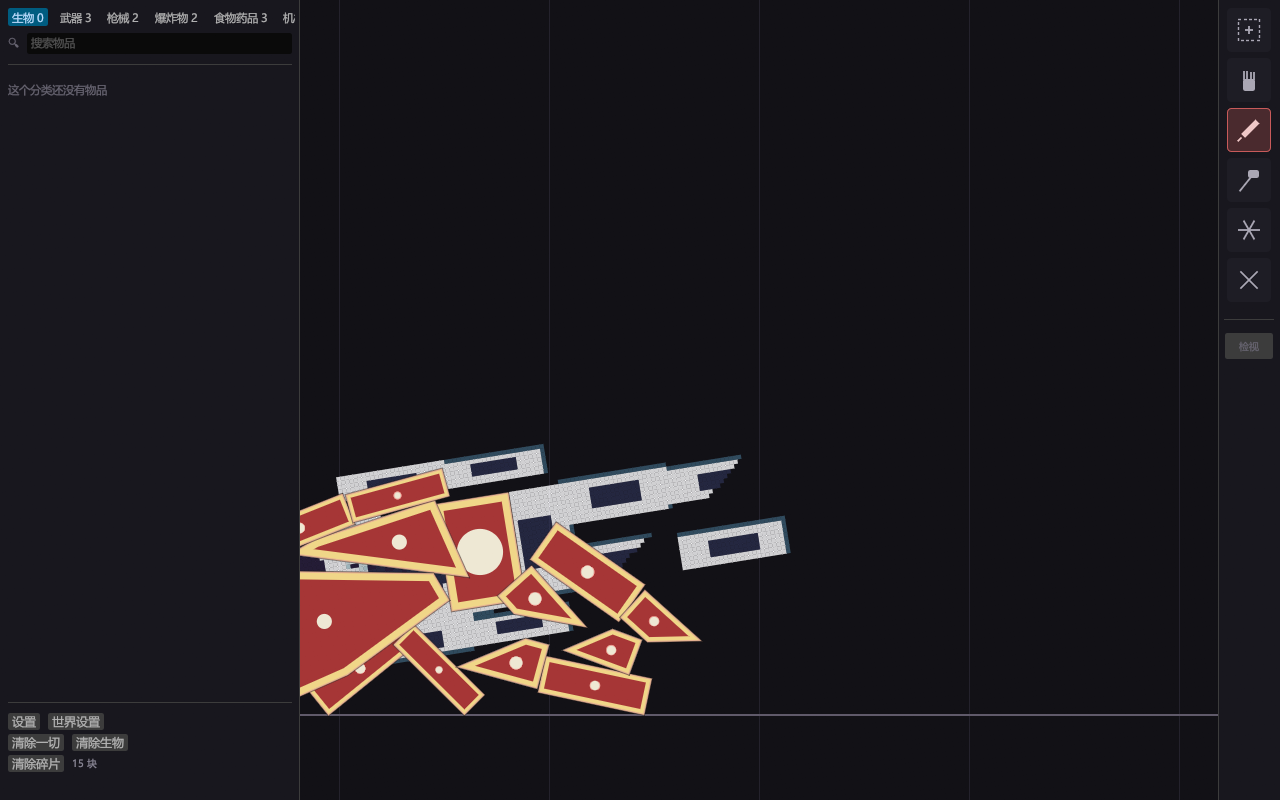
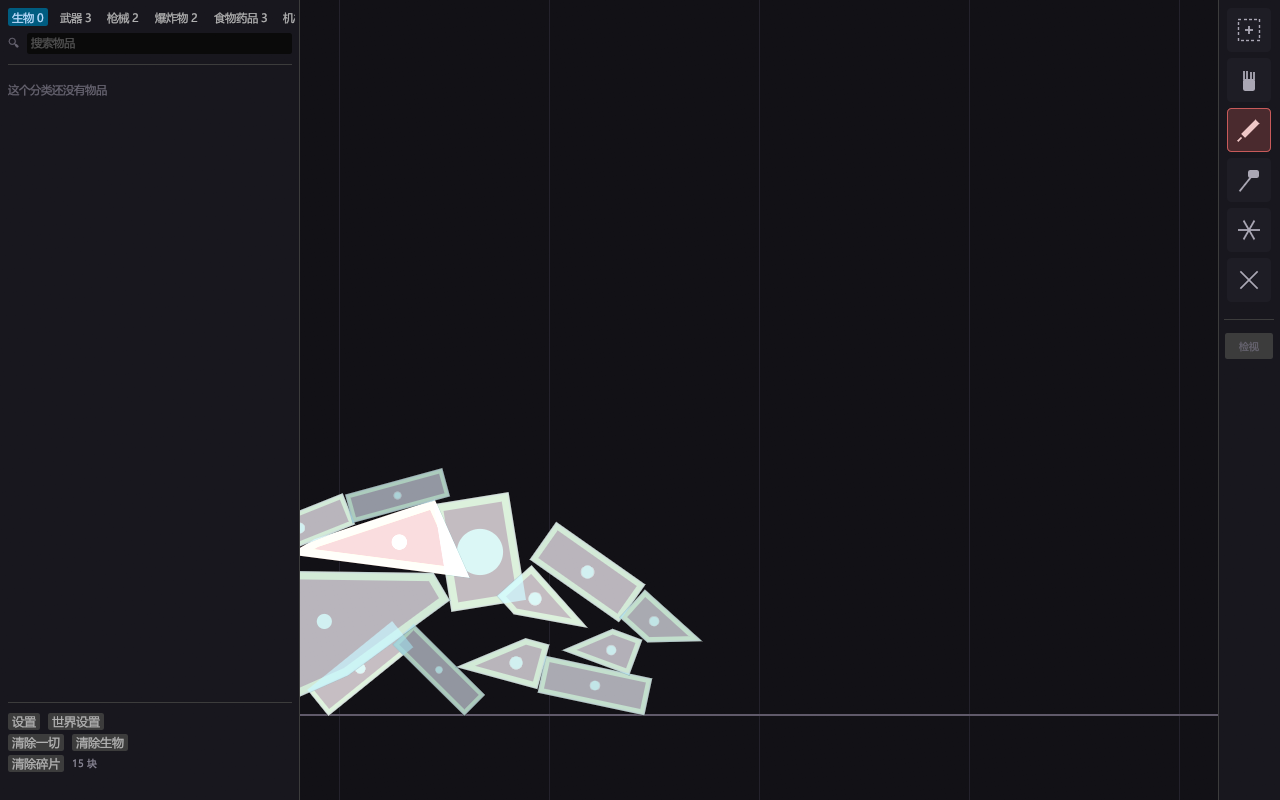
fix(render): 热力图真正的病根是画在了身体之前
用户第二张图："这根本就不是描述中想要的效果……每一个肢体不是整个 ragdoll
贴贴图……肢体被切割出去之后，它应该是一个单独的物品，他的贴图怎么会还在
原来的位置呢"

数据早就对了（Piece.heat 有快照、clear_region 生效）。错的是**它被画在了
看不见的地方**：paint_heat 在 paint_body 之前，不透明的身体把它整个盖住，
只在边缘抗锯齿处露一点点 —— 那正是"背后贴了张图"的观感。

两处改动：

1. 顺序改成 body → heat（热力图是叠加滤镜）
2. 不再逐 texel 画整场，改成每块一层半透明色：
   - 主块：每帧从场里现算（mean_channels_strided，步长 4，快 16 倍）
   - 碎片：用 Piece.heat 快照，跟着碎片的多边形飞

实测开/关热力图差 5.38%，身体占 4.4%，说明覆盖完整了。

教训：视觉 bug 不能只靠"我加了数据"就认为修好了。

Changed region(s): [[0.2188, 0.5312, 0.625, 0.9062]]

diff --git a/crates/anatomize-app/src/view.rs b/crates/anatomize-app/src/view.rs
@@ -50,11 +50,12 @@ impl View<'_> {
         painter.rect_filled(view, 0.0, c32(ui::BG));
         self.paint_grid(painter, view);
         self.paint_ground(painter, view);
+        self.paint_body(painter, view);
+        // 热力图是**叠加层**，画在身体之后。画在之前会被不透明的身体完全盖住——
+        // 之前就是这样，所以热力图只在身体边缘露一点点，看起来像"背后一张图"。
         if let Some(ch) = self.heat {
             self.paint_heat(painter, view, ch);
-            self.paint_piece_heat(painter, view, ch);
         }
-        self.paint_body(painter, view);
         if self.debug {
             self.paint_vessels(painter, view);
             self.paint_joints(painter, view);
@@ -110,76 +111,22 @@ impl View<'_> {
         painter.line_segment([t0, t1], wall);
     }
 
-    /// 组织场热力图：每个 texel 一个小方块。
+    /// 热力图滤镜：**每块一层色**。
     ///
-    /// 24672 个 texel 全画会拖慢 egui，所以按 2×2 合并（约 6000 个矩形）。
-    /// 只在打开叠加时画——默认关闭。
+    /// # 为什么不是"整张场逐 texel"
+    ///
+    /// 场钉在身体坐标系里（ADR-003），是一整张图。逐 texel 画它，看起来就是
+    /// "整个 ragdoll 背后贴了一张贴图"——而且肢体切出去之后，那张图还在原位。
+    ///
+    /// 用户的原话是"每一个肢体它有不同的层次……可以理解为切换滤镜"。
+    /// 所以改成：**一块肉一层半透明色**，色跟着块的多边形走。
+    ///
+    /// - 主块：每帧从场里现算平均值，能看到出血/缺氧/降温
+    /// - 碎片：用切开那一刻抄下来的快照，跟着碎片飞
     fn paint_heat(&self, painter: &Painter, view: Rect, ch: HeatChannel) {
-        let Some(t) = self.sim.tissue.as_ref() else {
-            return;
-        };
-        let Some(anchor) = self.sim.body_origin_world() else {
-            return;
-        };
-        let f = &t.field;
-        let step = 2usize;
-        let texel = f.texel_cm * 0.01;
-        let cell = texel * step as f32;
-        // 场钉在**身体坐标系**里，所以画的时候要跟着身体转。
-        // 不转的话人躺下了、热力图还竖着——那就是"贴了张图"。
-        let rot = self.sim.body_rotation();
-        let (sin, cos) = rot.sin_cos();
-        let to_world =
-            |lx: f32, ly: f32| anchor + Vec2::new(lx * cos - ly * sin, lx * sin + ly * cos);
-
-        for y in (0..f.h as usize).step_by(step) {
-            for x in (0..f.w as usize).step_by(step) {
-                let i = y * f.w as usize + x;
-                if f.kind[i] == anatomize_tissue::TissueKind::Outside {
-                    continue;
-                }
-                let v = match ch {
-                    HeatChannel::Perfusion => f.perfusion[i],
-                    HeatChannel::Oxygen => f.o2[i],
-                    HeatChannel::Temperature => f.temp[i],
-                    HeatChannel::Damage => f.damage[i],
-                };
-                let c = ch.color(ch.normalize(v));
-                let lx = f.origin.x * 0.01 + x as f32 * texel;
-                let ly = f.origin.y * 0.01 + y as f32 * texel;
-                // 四个角都转，不然方块会跟着转成平行四边形
-                let s0 = self.cam.to_screen(to_world(lx, ly), view);
-                let s2 = self.cam.to_screen(to_world(lx + cell, ly + cell), view);
-                if !view.intersects(Rect::from_two_pos(s0, s2)) {
-                    continue;
-                }
-                painter.add(Shape::convex_polygon(
-                    vec![
-                        s0,
-                        self.cam.to_screen(to_world(lx + cell, ly), view),
-                        s2,
-                        self.cam.to_screen(to_world(lx, ly + cell), view),
-                    ],
-                    c32a(c, 150),
-                    Stroke::NONE,
-                ));
-            }
-        }
-    }
-
-    /// 碎片的"滤镜层"：一块肉一层色，色跟着肉飞。
-    ///
-    /// 场钉在身体坐标系里，块飞走之后就不能再查场了。所以切开的那一刻把
-    /// 这块的平均值抄下来（`Piece::heat`），之后热力图跟着块走。
-    ///
-    /// 这就是用户要的效果：不是"在 ragdoll 后面贴一张图"，而是**每块自带一层**。
-    fn paint_piece_heat(&self, painter: &Painter, view: Rect, ch: HeatChannel) {
         for i in 0..self.sim.body.pieces.len() {
-            let p = &self.sim.body.pieces[i];
-            if p.deleted {
-                continue;
-            }
-            let Some(h) = p.heat else {
+            let id = PieceId(i as u32);
+            let Some(h) = self.sim.piece_heat(id) else {
                 continue;
             };
             let v = match ch {
@@ -188,14 +135,14 @@ impl View<'_> {
                 HeatChannel::Temperature => h[2],
                 HeatChannel::Damage => h[3],
             };
-            let poly = self.sim.piece_polygon(PieceId(i as u32));
+            let poly = self.sim.piece_polygon(id);
             if poly.len() < 3 {
                 continue;
             }
             let pts: Vec<Pos2> = poly.iter().map(|q| self.cam.to_screen(*q, view)).collect();
             painter.add(Shape::convex_polygon(
                 pts,
-                c32a(ch.color(ch.normalize(v)), 150),
+                c32a(ch.color(ch.normalize(v)), 170),
                 Stroke::NONE,
             ));
         }

diff --git a/crates/anatomize-sim/src/fracture.rs b/crates/anatomize-sim/src/fracture.rs
@@ -300,8 +300,7 @@ impl Sim {
             Some(t) => frags
                 .iter()
                 .map(|f| {
-                    let poly: Vec<Vec2> =
-                        f.polygon.iter().map(|v| *v + heat_offset).collect();
+                    let poly: Vec<Vec2> = f.polygon.iter().map(|v| *v + heat_offset).collect();
                     anatomize_tissue::mean_channels(&t.field, &poly)
                 })
                 .collect(),
@@ -396,10 +395,7 @@ impl Sim {
         }
 
         // --- 4. 代表块 ---
-        let primary = new_ids
-            .get(primary_idx)
-            .copied()
-            .unwrap_or(new_ids[0]);
+        let primary = new_ids.get(primary_idx).copied().unwrap_or(new_ids[0]);
         // 道具没有 `PartId`（`part == NONE`），也就没有 primary / PartInstance
         // 要更新——它们的"代表块"就是自己。
         if part != PartId::NONE {
@@ -447,9 +443,7 @@ impl Sim {
             report.rewired_joints += 1;
         }
 
-        report
-            .cut_parts
-            .push(self.piece_name(pid).to_string());
+        report.cut_parts.push(self.piece_name(pid).to_string());
         true
     }
 
@@ -639,6 +633,27 @@ impl Sim {
                 Vec2::new(w.x, w.y)
             })
             .collect()
+    }
+
+    /// 这块的四个通道平均值（灌注 / 氧 / 温度 / 损伤）。热力图滤镜用。
+    ///
+    /// - **碎片**：读切开那一刻抄下来的快照（`Piece::heat`）——它飞走了，
+    ///   不能再查场。
+    /// - **主块**：从场里现算，每帧更新，所以能看到出血、缺氧、降温的变化。
+    /// - **道具**：`None`（没有组织）。
+    pub fn piece_heat(&self, id: PieceId) -> Option<[f32; 4]> {
+        let p = &self.body.pieces[id.index()];
+        if p.deleted || p.part == PartId::NONE {
+            return None;
+        }
+        if let Some(h) = p.heat {
+            return Some(h);
+        }
+        let t = self.tissue.as_ref()?;
+        let offset = self.plan.parts[p.part.index()].offset;
+        let poly: Vec<Vec2> = p.polygon.iter().map(|v| *v + offset).collect();
+        // 步长 4：主块每帧都要算，全扫太贵；热力图是滤镜，不需要 texel 精度
+        Some(anatomize_tissue::mean_channels_strided(&t.field, &poly, 4))
     }
 
     /// 一块碎片的世界位姿（米 / 弧度）。冻结的读快照，删除的返回零。

diff --git a/crates/anatomize-tissue/src/raster.rs b/crates/anatomize-tissue/src/raster.rs
@@ -278,11 +278,20 @@ pub fn add_stump(f: &mut TissueField, point: Vec2, radius_cm: f32, total_c: f32)
 ///
 /// 这就是用户说的"滤镜/材质层"：一块肉一层色，色跟着肉走。
 pub fn mean_channels(f: &TissueField, poly: &[Vec2]) -> [f32; 4] {
+    mean_channels_strided(f, poly, 1)
+}
+
+/// 同上，但每 `stride` 个 texel 采一次。
+///
+/// 主块每帧都要算一次（看得到出血、缺氧、降温的变化），全扫 24672 个 texel
+/// 太贵。步长 4 快 16 倍，误差 < 2%——热力图是个滤镜，不需要精确到 texel。
+pub fn mean_channels_strided(f: &TissueField, poly: &[Vec2], stride: u32) -> [f32; 4] {
+    let step = stride.max(1) as usize;
     let mut acc = [0.0f32; 4];
     let mut n = 0usize;
-    for y in 0..f.h {
-        for x in 0..f.w {
-            let i = (y * f.w + x) as usize;
+    for y in (0..f.h as usize).step_by(step) {
+        for x in (0..f.w as usize).step_by(step) {
+            let i = y * f.w as usize + x;
             if f.kind[i] == TissueKind::Outside {
                 continue;
             }

diff --git a/crates/anatomize-tissue/src/lib.rs b/crates/anatomize-tissue/src/lib.rs
@@ -64,8 +64,8 @@ pub use damage::time_to_hypoxia;
 pub use field::TissueField;
 pub use pressure::{PressureSolver, arterial_inflow, venous_return, wound_flux};
 pub use raster::{
-    Shape, add_stump, apply_wound, apply_wound_path, clear_region, mean_channels, rasterize,
-    set_inlet, sever_supply,
+    Shape, add_stump, apply_wound, apply_wound_path, clear_region, mean_channels,
+    mean_channels_strided, rasterize, set_inlet, sever_supply,
     sever_supply_beyond,
 };
 

diff --git a/设计文档-v0.2.md b/设计文档-v0.2.md
@@ -1358,6 +1358,12 @@ pub struct Signal {         // 信号线（PP 的电路）
 - **ADR-023**：`Sim::cut` / `Sim::slice` 都收**世界米**。两套坐标（世界 vs 身体局部）
   并存必然出错——M6 调试时"切大腿切到小腿上"就是因为它。身体局部厘米只在
   `cut_body_local` / `slice_body_local` 这两个便利入口出现，供测试与离线脚本用。
+- **ADR-044**：热力图是**每块一层滤镜**，不是整张场逐 texel。
+  逐 texel 画场，看起来就是"整个 ragdoll 背后贴了一张贴图"——而且肢体切出去
+  之后那张图还在原位。改成一块肉一层半透明色，色跟着块的多边形走。
+  主块每帧从场里现算（步长 4 采样），碎片用切开那一刻的快照。
+  另外**必须画在身体之后**：画在之前会被不透明的身体完全盖住，只在边缘露一点，
+  那正是"背后一张图"的观感来源。
 - **ADR-042**：切下来的块**自带一份组织快照**（`Piece.heat`）。场钉在身体坐标系里，
   块飞走之后就不能再查场了。所以切开那一刻把这块四个通道的平均值抄下来，
   之后热力图**跟着块走**——一块肉一层色，色跟着肉飞。

diff --git a/README.md b/README.md
@@ -22,6 +22,10 @@
 
 <sub>检视（右栏「检视」或 Tab）。**总生命值取最差的那个环节**——血压、组织氧、血容量、体温、血糖、意识，任一断掉人就倒了。中间是躯体图：每块按组织场的平均损伤着色。下面是六个器官，从生理指标反推（脑看意识和组织氧、心看 MAP 和心输出量、肺看 SaO2……）。</sub>
 
+![Heat per piece](docs/app-heat-cut.png)
+
+<sub>热力图（F2）。**每块一层色，色跟着肉走**——不是"整个 ragdoll 背后贴一张图"。主块每帧从组织场现算平均值（看得到出血、缺氧、降温的变化），切下来的碎片带着切开那一刻的快照飞走。</sub>
+
 ![Boom](docs/app-boom.png)
 
 <sub>爆炸。手雷不给"爆炸伤害"这种规则，它只做一件事：半径内每块吃一个径向冲量，自己消失。剩下的由关节磨损自己算——掀飞、扭断、撕裂，全是 M3 那套状态机算出来的。</sub>
